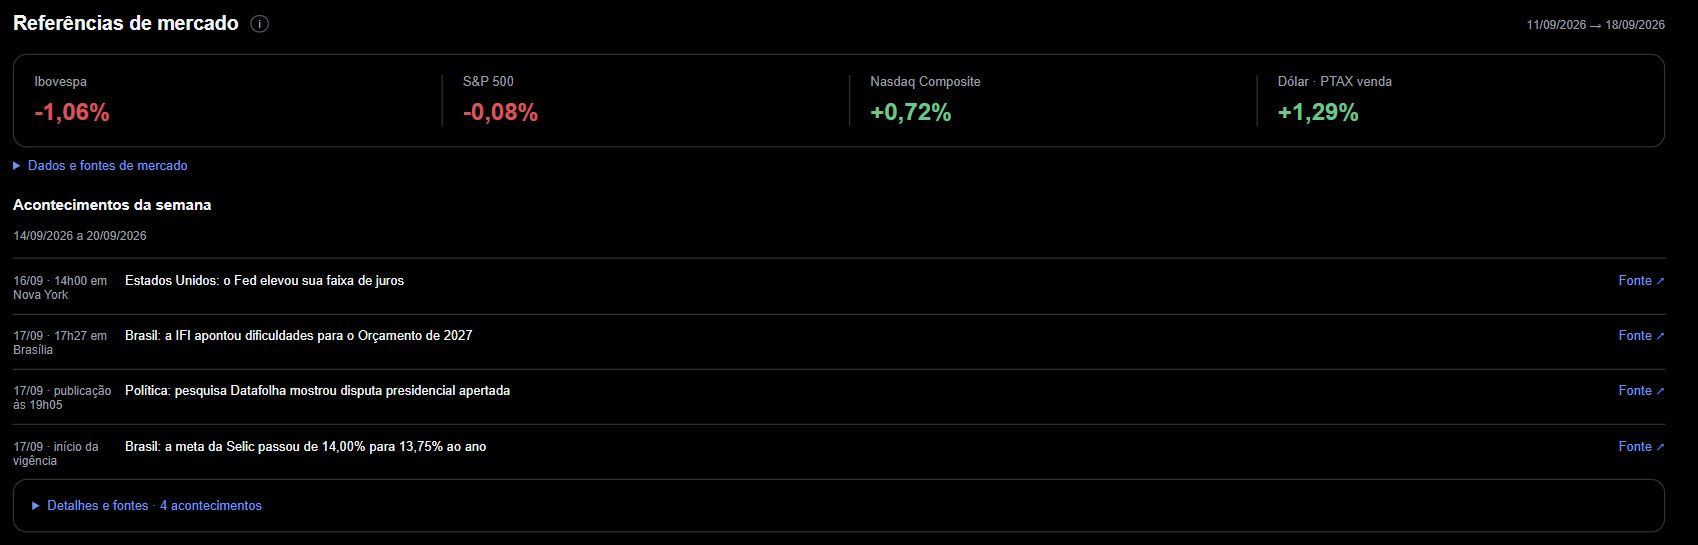
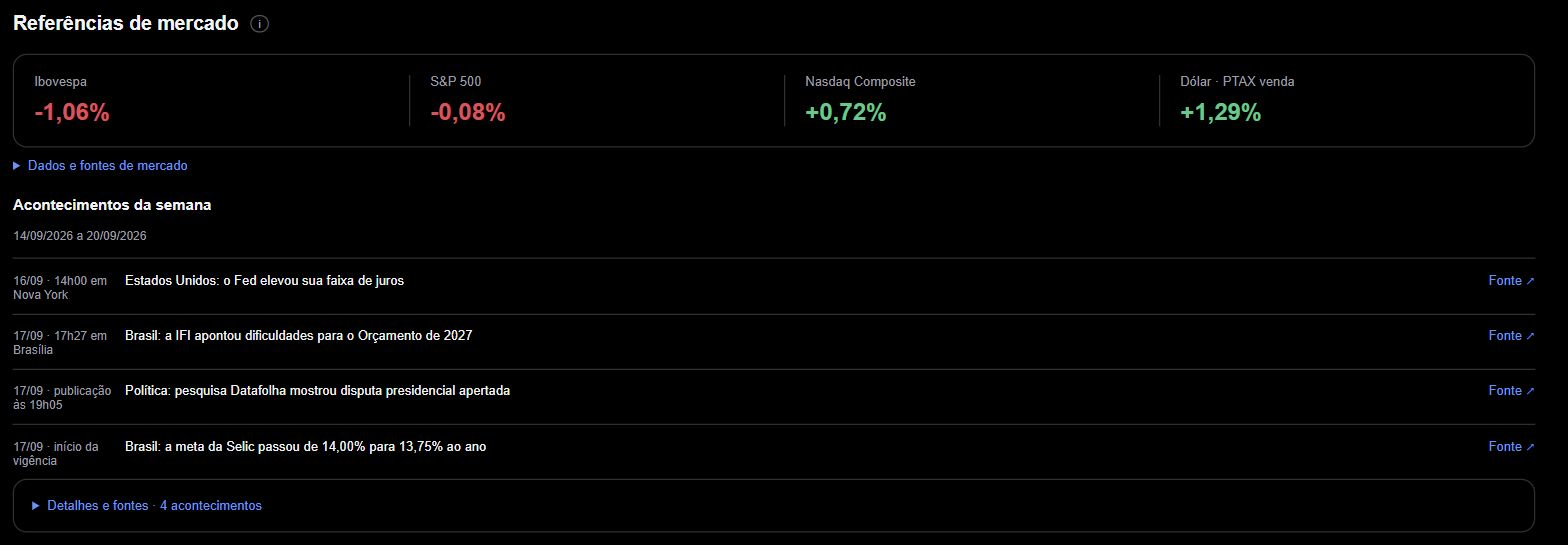
Remove repeated market dates

diff --git a/webapp/static/context.js b/webapp/static/context.js
@@ -227,10 +227,6 @@
     const period = context.market.indicators.find((item) => item[selectedWindow])?.[selectedWindow];
     const heading = el('div', '', 'market-heading');
     heading.append(marketTitle);
-    if (period)
-      heading.append(
-        el('span', `${date(period.start_date)} → ${date(period.end_date)}`, 'market-period'),
-      );
     marketPanel.append(heading);
     const grid = el('div', '', 'market-quotes');
     const referenceDetails = el('details', '', 'market-reference-details');

diff --git a/docs/como-usar.md b/docs/como-usar.md
@@ -118,7 +118,7 @@ Um acontecimento pode ter ocorrido na semana ou antes dela. Resultados trimestra
 
 ### Referências de mercado e acontecimentos
 
-A seção **Referências de mercado**, entre o resumo e “20 Maiores retornos da semana”, compara Ibovespa, S&P 500, Nasdaq Composite e dólar PTAX nas datas da janela selecionada. Uma faixa compacta mostra as variações e o período; datas diferentes aparecem junto ao indicador correspondente. **Dados e fontes de mercado** abre uma tabela com indicador, datas inicial e final, valores inicial e final, unidade e fonte. No celular, deslize dentro da tabela para consultar as colunas. O “i” explica o método e as diferenças entre as referências. PTAX é a taxa de referência do Banco Central; não é fechamento de mercado. Essas referências não substituem os preços da Economatica.
+A seção **Referências de mercado**, entre o resumo e “20 Maiores retornos da semana”, compara Ibovespa, S&P 500, Nasdaq Composite e dólar PTAX nas datas da janela selecionada. Uma faixa compacta mostra as variações. O período fica junto ao seletor de semana; datas diferentes aparecem junto ao indicador correspondente. **Dados e fontes de mercado** abre uma tabela com indicador, datas inicial e final, valores inicial e final, unidade e fonte. No celular, deslize dentro da tabela para consultar as colunas. O “i” explica o método e as diferenças entre as referências. PTAX é a taxa de referência do Banco Central; não é fechamento de mercado. Essas referências não substituem os preços da Economatica.
 
 ![Referências de mercado do case, com quatro variações e quatro acontecimentos datados com acesso às fontes.](assets/referencias-quatro-acontecimentos-20261008.jpg)
 
